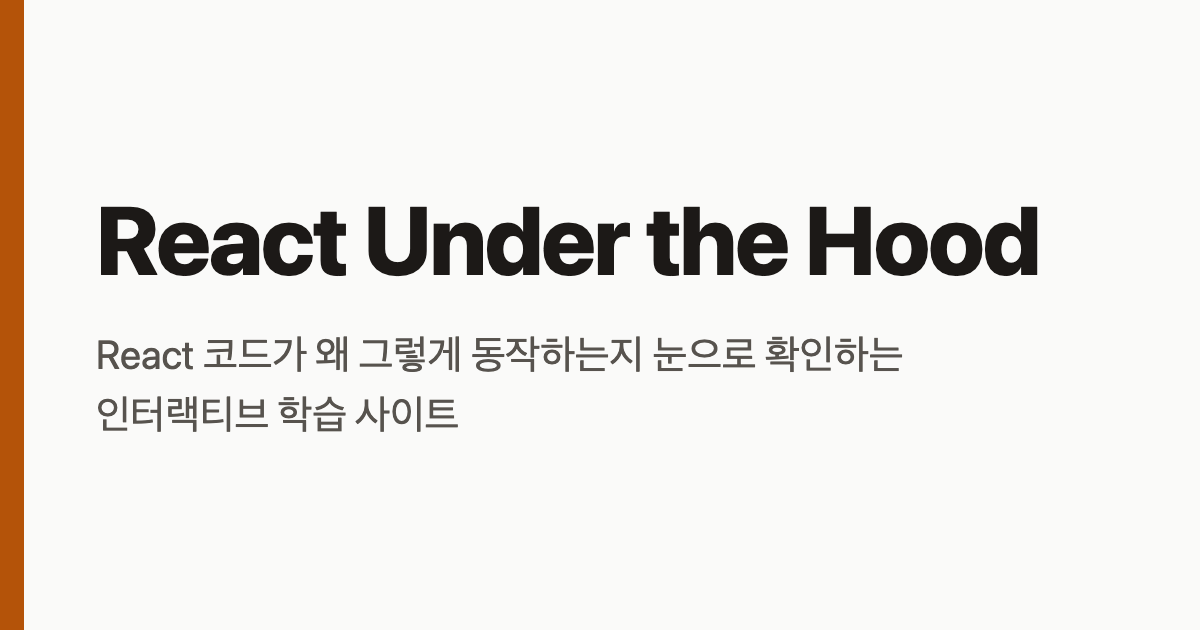
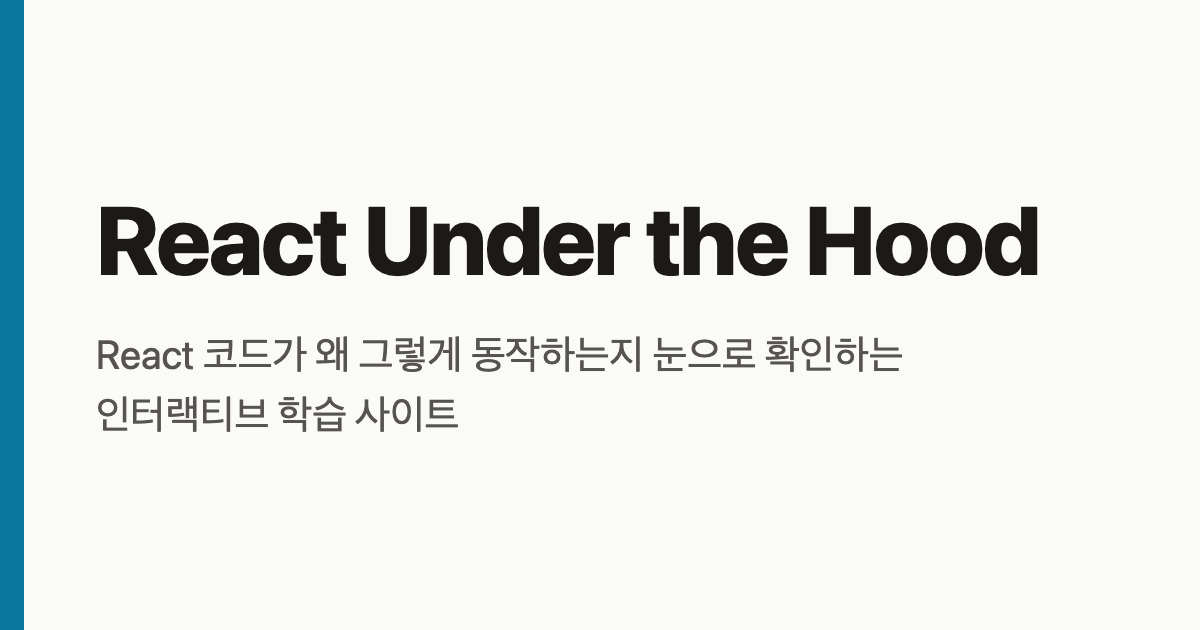
chore: 파비콘과 OG 이미지를 React 강조색으로 변경
- favicon.svg 배경 #08799d, 기호 #ffffff
- og-default.png를 npm run og:generate로 재생성(app.css 라이트 토큰 사용)

Changed region(s): [[0.0, 0.0, 0.0308, 1.0]]

diff --git a/.claude/plans/concept-jsx-to-element.md b/.claude/plans/concept-jsx-to-element.md
@@ -379,7 +379,7 @@
 - Critical·High 0건이다. Low 2건은 고치지 않고 남겼다(아래 후속 작업). 단순화 목록의 버전 한정 Low는 검토 의견 반영 때 해소됐다.
 
 ### 후속 작업
-- [ ] (선택) `public/favicon.svg`와 OG 이미지(`npm run og:generate`)를 새 강조색에 맞출지 결정
+- [x] `public/favicon.svg`와 OG 이미지를 새 강조색에 맞춤(2026-11-03, 사용자 요청): 파비콘 배경 #08799d·기호 #ffffff, `npm run og:generate`로 재생성(스크립트가 app.css 라이트 토큰을 읽음). format:check·test:build 26 통과
 - [ ] (선택) navigation e2e의 검색어 `객체`는 일치하는 개념이 1개 이상이라고 가정한다. 개념 구성이 바뀌어 0개가 되면 검색어를 바꾼다
 - [ ] 로드맵 2번 "렌더링은 컴포넌트 함수를 호출하는 것" 작성(이 페이지가 렌더 과정을 그 개념으로 넘김)
 
